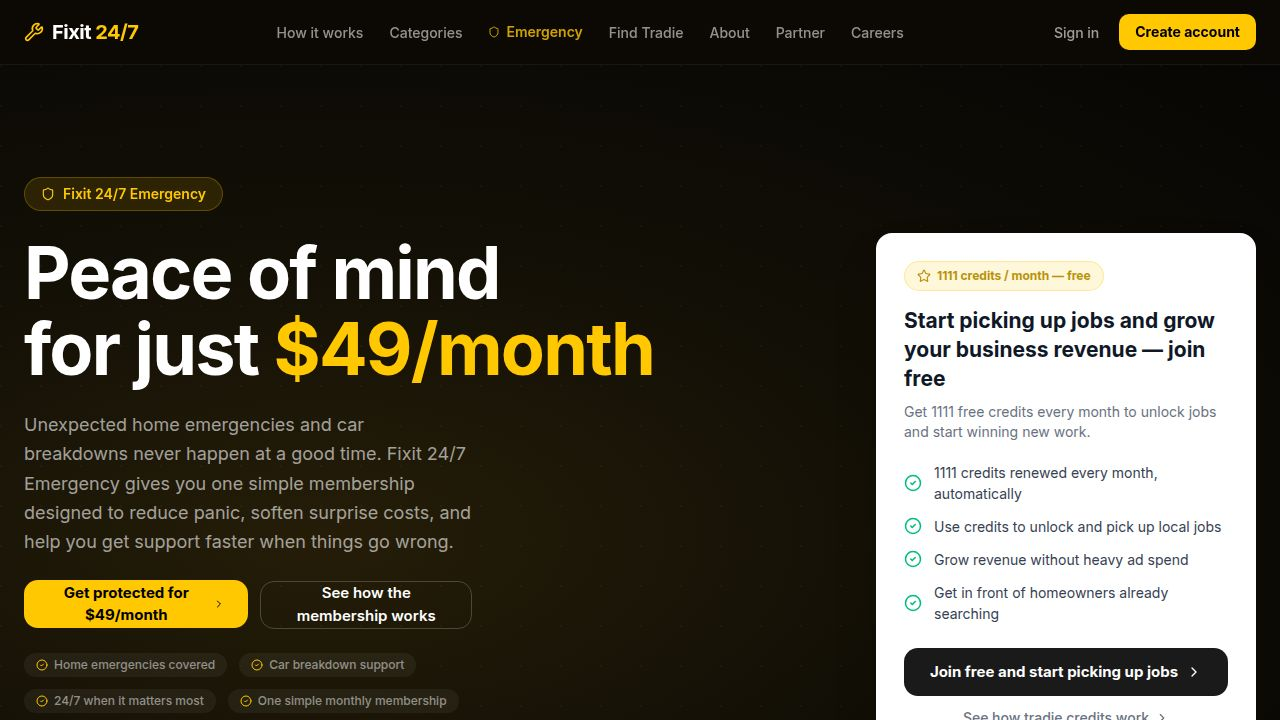
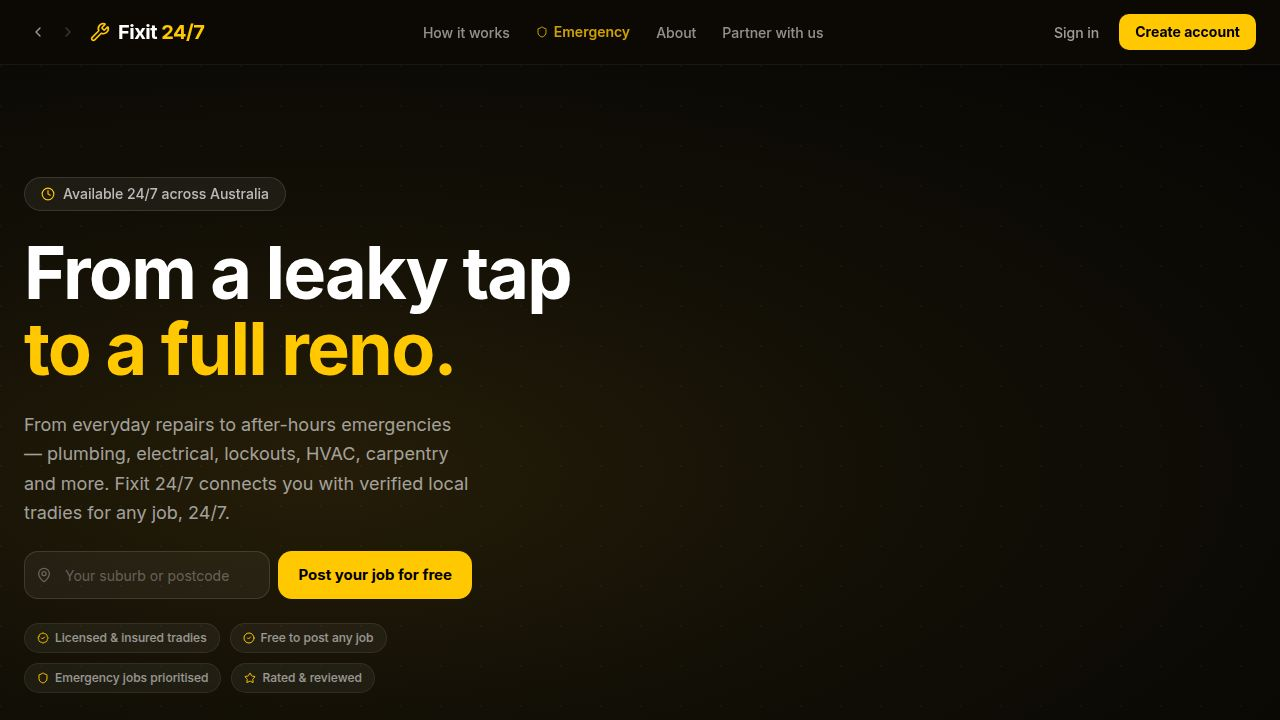
feat(task-19): homeowner-only hero & move tradie card to /partner
1. Hero H1 updated:
   - "Any job, any tradie, fixed fast." → "From a leaky tap / to a full reno."
   - Amber highlight now on the second line "to a full reno."

2. Tradie card removed from homepage hero:
   - Deleted the entire right-hand <motion.div> (white card with BUILT FOR
     TRADIES eyebrow, 1111 credits badge, perks list, two CTAs)
   - Removed the TRADIE_PERKS constant from landing.tsx (no longer used)
   - Hero is now single-column, homeowner-only, full-width

3. Slim tradie nudge band added to landing page:
   - Positioned immediately after the hero section, above Membership
     Conversion section
   - Text: "Are you a tradie? Get verified jobs in your area →"
   - Secondary visual weight (muted text, no amber button), links to /partner

4. Tradie acquisition card added to /partner page:
   - Inserted as a new section between the partner hero and Scaling Pillars
   - Dark-themed (white text on dark bg) to match partner page aesthetic
   - Preserves all original content: BUILT FOR TRADIES eyebrow, 1111 credits
     badge, heading, subheading, all four perks bullets
   - Primary CTA "Join free and start picking up jobs" → /signup?role=tradie
   - Secondary link "See how tradie credits work" → /#how-it-works

Typecheck passes cleanly. No backend changes.

diff --git a/artifacts/fixit247/src/pages/landing.tsx b/artifacts/fixit247/src/pages/landing.tsx
@@ -27,13 +27,6 @@ const ICON_MAP: Record<string, React.ElementType> = {
   lock: ShieldCheck,
 };
 
-const TRADIE_PERKS = [
-  "1111 credits renewed every month, automatically",
-  "Use credits to unlock and pick up local jobs",
-  "Grow revenue without heavy ad spend",
-  "Get in front of homeowners already searching",
-];
-
 
 const HOW_IT_WORKS_HOMEOWNER = [
   {
@@ -229,8 +222,8 @@ export default function LandingPage() {
 
             <div>
               <h1 className="text-5xl md:text-6xl lg:text-7xl font-black leading-[1.05] tracking-tight">
-                Any job, any tradie,<br />
-                <span className="text-[#ffc800]">fixed fast.</span>
+                From a leaky tap<br />
+                <span className="text-[#ffc800]">to a full reno.</span>
               </h1>
             </div>
 
@@ -272,61 +265,21 @@ export default function LandingPage() {
               ))}
             </div>
           </motion.div>
-
-          {/* Right — Tradie card */}
-          <motion.div
-            className="w-full lg:w-[380px] shrink-0"
-            initial={{ opacity: 0, x: 30 }}
-            animate={{ opacity: 1, x: 0 }}
-            transition={{ duration: 0.6, delay: 0.15 }}
-          >
-            <div className="bg-white rounded-2xl shadow-2xl overflow-hidden">
-              <div className="p-7">
-                {/* Built for tradies eyebrow */}
-                <p className="text-[11px] font-black uppercase tracking-widest text-[#b8920a] mb-3">Built for tradies</p>
-
-                {/* Credits callout badge */}
-                <div className="flex items-center gap-2 mb-4">
-                  <span className="inline-flex items-center gap-1.5 bg-[#ffc800]/15 text-[#b8920a] border border-[#ffc800]/30 text-xs font-bold px-3 py-1.5 rounded-full">
-                    <Star className="h-3.5 w-3.5" aria-hidden="true" />
-                    1111 credits / month — free
-                  </span>
-                </div>
-
-                <h2 className="text-[21px] font-bold text-gray-900 leading-snug mb-2">
-                  Start picking up jobs and grow your business revenue — join free
-                </h2>
-                <p className="text-sm text-gray-500 mb-5">
-                  Get 1111 free credits every month to unlock jobs and start winning new work.
-                </p>
-
-                <ul className="flex flex-col gap-3 mb-6" role="list">
-                  {TRADIE_PERKS.map((perk) => (
-                    <li key={perk} className="flex items-center gap-3 text-[14px] text-gray-700">
-                      <CheckCircle2 className="h-4.5 w-4.5 text-emerald-500 shrink-0" aria-hidden="true" />
-                      {perk}
-                    </li>
-                  ))}
-                </ul>
-
-                <Link href="/signup?role=tradie">
-                  <button className="w-full h-12 rounded-xl font-bold text-[15px] text-white bg-[#1a1a1a] hover:bg-[#2d2d2d] active:scale-[0.97] transition-all inline-flex items-center justify-center gap-2">
-                    Join free and start picking up jobs
-                    <ChevronRight className="h-4 w-4" aria-hidden="true" />
-                  </button>
-                </Link>
-
-                <Link href="#how-it-works">
-                  <span className="mt-3 flex items-center justify-center gap-1.5 text-sm font-medium text-gray-500 hover:text-gray-800 transition-colors cursor-pointer">
-                    See how tradie credits work
-                    <ChevronRight className="h-3.5 w-3.5" aria-hidden="true" />
-                  </span>
-                </Link>
-              </div>
-            </div>
-          </motion.div>
         </div>
       </section>
+
+      {/* ─── Tradie nudge band ─── */}
+      <div className="bg-[#0d0b07] border-b border-white/8">
+        <div className="container mx-auto px-4 sm:px-6 py-3 flex items-center justify-center gap-2">
+          <span className="text-sm text-white/45">Are you a tradie?</span>
+          <Link href="/partner">
+            <span className="inline-flex items-center gap-1 text-sm font-medium text-white/65 hover:text-[#ffc800] transition-colors cursor-pointer">
+              Get verified jobs in your area
+              <ChevronRight className="h-3.5 w-3.5" aria-hidden="true" />
+            </span>
+          </Link>
+        </div>
+      </div>
 
       {/* ─── Membership Conversion Section ─── */}
       <section className="relative overflow-hidden bg-[#0d0a05] border-y border-[#ffc800]/12 py-16 lg:py-20 text-white" aria-label="Emergency membership offer">

diff --git a/artifacts/fixit247/src/pages/partner.tsx b/artifacts/fixit247/src/pages/partner.tsx
@@ -487,6 +487,64 @@ export default function PartnerPage() {
         </motion.div>
       </section>
 
+      {/* ─── Tradie acquisition card ─── */}
+      <section className="py-14 sm:py-16 bg-[#0b0904] border-b border-white/8">
+        <div className="container max-w-3xl mx-auto px-4 sm:px-6">
+          <motion.div
+            initial={{ opacity: 0, y: 20 }}
+            whileInView={{ opacity: 1, y: 0 }}
+            transition={{ duration: 0.5 }}
+            viewport={{ once: true }}
+            className="bg-white/5 border border-white/10 rounded-2xl p-8 sm:p-10"
+          >
+            <p className="text-[11px] font-black uppercase tracking-widest text-[#ffc800] mb-4">Built for tradies</p>
+
+            <div className="flex items-center gap-2 mb-5">
+              <span className="inline-flex items-center gap-1.5 bg-[#ffc800]/15 text-[#b8920a] border border-[#ffc800]/30 text-xs font-bold px-3 py-1.5 rounded-full">
+                <Star className="h-3.5 w-3.5" aria-hidden="true" />
+                1111 credits / month — free
+              </span>
+            </div>
+
+            <h2 className="text-2xl sm:text-3xl font-bold text-white leading-snug mb-2">
+              Start picking up jobs and grow your business revenue — join free
+            </h2>
+            <p className="text-white/55 text-[15px] mb-7">
+              Get 1111 free credits every month to unlock jobs and start winning new work.
+            </p>
+
+            <ul className="flex flex-col gap-3 mb-8" role="list">
+              {[
+                "1111 credits renewed every month, automatically",
+                "Use credits to unlock and pick up local jobs",
+                "Grow revenue without heavy ad spend",
+                "Get in front of homeowners already searching",
+              ].map((perk) => (
+                <li key={perk} className="flex items-center gap-3 text-[14px] text-white/75">
+                  <CheckCircle2 className="h-4 w-4 text-emerald-400 shrink-0" aria-hidden="true" />
+                  {perk}
+                </li>
+              ))}
+            </ul>
+
+            <div className="flex flex-col sm:flex-row gap-3">
+              <a href="/signup?role=tradie">
+                <button className="h-12 px-7 rounded-xl font-bold text-[15px] text-black bg-[#ffc800] hover:bg-[#e6b800] active:scale-[0.97] transition-all inline-flex items-center justify-center gap-2">
+                  Join free and start picking up jobs
+                  <ChevronRight className="h-4 w-4" aria-hidden="true" />
+                </button>
+              </a>
+              <a href="/#how-it-works">
+                <span className="h-12 px-5 inline-flex items-center justify-center gap-1.5 text-sm font-medium text-white/55 hover:text-white transition-colors cursor-pointer">
+                  See how tradie credits work
+                  <ChevronRight className="h-3.5 w-3.5" aria-hidden="true" />
+                </span>
+              </a>
+            </div>
+          </motion.div>
+        </div>
+      </section>
+
       {/* ─── Scaling pillars ─── */}
       <section className="py-16 sm:py-20 bg-[#0e0c08]">
         <div className="container max-w-5xl mx-auto px-4 sm:px-6">